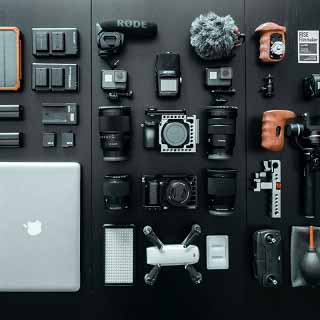
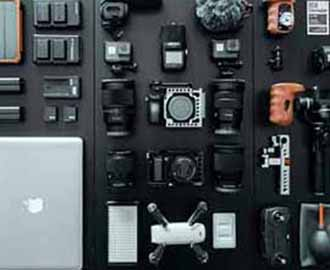
resize portfolio img

diff --git a/style.css b/style.css
@@ -705,6 +705,8 @@ h4 {
 
 .portfolio-thumb {
     margin-bottom: 24px;
+    width: 270px;
+    height: 270px;
 }
 
 .portfolio-row {
@@ -805,6 +807,9 @@ footer a{
         padding-left: 0;
         padding-right: 0;
     }
+    .portfolio-thumb{
+        width: 100%;
+    }
 }
 
 @media (max-width: 992px) and (min-width: 768px) {
@@ -814,17 +819,27 @@ footer a{
     .nav-center.navbar .nav {
         max-width: 100%
     }
+    .portfolio-thumb{
+        width: 100%;
+    }
 }
 
 @media only screen and (min-width: 768px) and (max-width: 1024px) and (orientation: landscape) {
     .b-parallax {
         background-attachment: scroll;
     }
+    .portfolio-thumb{
+        width: 100%;
+    }
+    
 }
 
 @media only screen and (min-width: 1024px) and (max-width: 1366px){
     .b-parallax {
         background-attachment: scroll;
+    }
+    .portfolio-thumb{
+        width: 100%;
     }
 }
 
@@ -849,6 +864,9 @@ footer a{
     .bloc-fill-screen .fill-bloc-top-edge,
     .bloc-fill-screen .fill-bloc-bottom-edge {
         padding: 0 20px;
+    }
+    .portfolio-thumb{
+        width: 100%;
     }
 }
 .center1{
@@ -990,6 +1008,9 @@ footer a{
         width: 180px;
         height: 320px;
     }
+    .portfolio-thumb{
+        width: 100%;
+    }
 }
 
 @media (max-width: 400px) {
@@ -997,11 +1018,17 @@ footer a{
         padding-left: 0;
         padding-right: 0;
     }
+    .portfolio-thumb{
+        width: 100%;
+    }
 }
 
 @media (max-width: 767px) {
     .bloc-mob-center-text {
         text-align: center;
+    }
+    .portfolio-thumb{
+        width: 100%;
     }
 }
 @media (min-width: 768px) {
@@ -1041,6 +1068,9 @@ footer a{
     .nav-center.mini-nav .navbar-toggle {
         float: none;
         margin: 10px auto 0;
+    }
+    .portfolio-thumb{
+        width: 100%;
     }
 }
 /* #endregion média queries*/

diff --git a/index.html b/index.html
@@ -20,13 +20,14 @@
     <script src="./js/bootstrap.js"></script>
     <script defer src="./js/jquery.touchSwipe.js"></script>
     <script defer src="./js/gmaps.js"></script>
+
     
+    <!-- Ajout d'un titre à la page-->
     <title>Agence de Web design sur Lyon - La Panthère -index </title>
     <meta
       name="description"
       content="L'agence de web design, La Panthère, basé à Lyon, accueil les entreprises dans leurs projets afin de renforcer leur attractivité et leur visibilité sur Internet. Notre but est d'aider les entreprises Lyonnaise à se développer et connaitre le succès"
     />
-    <!-- Ajout d'un titre à la page-->
 
     <!-- Analytics -->
 
